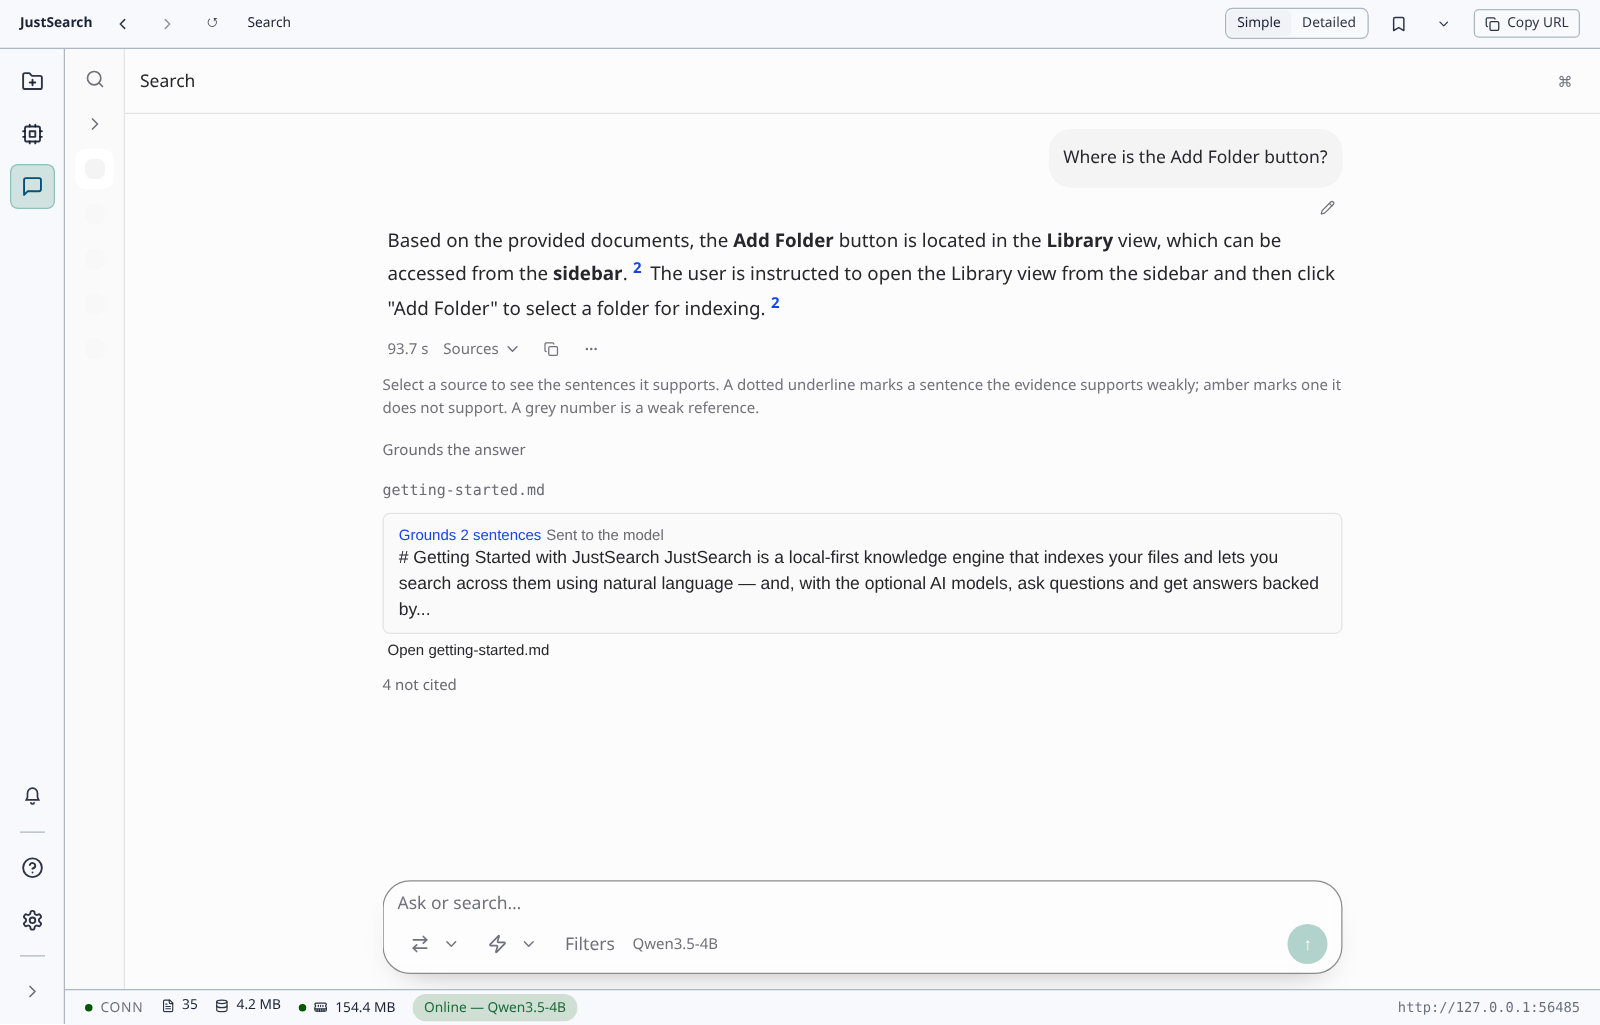
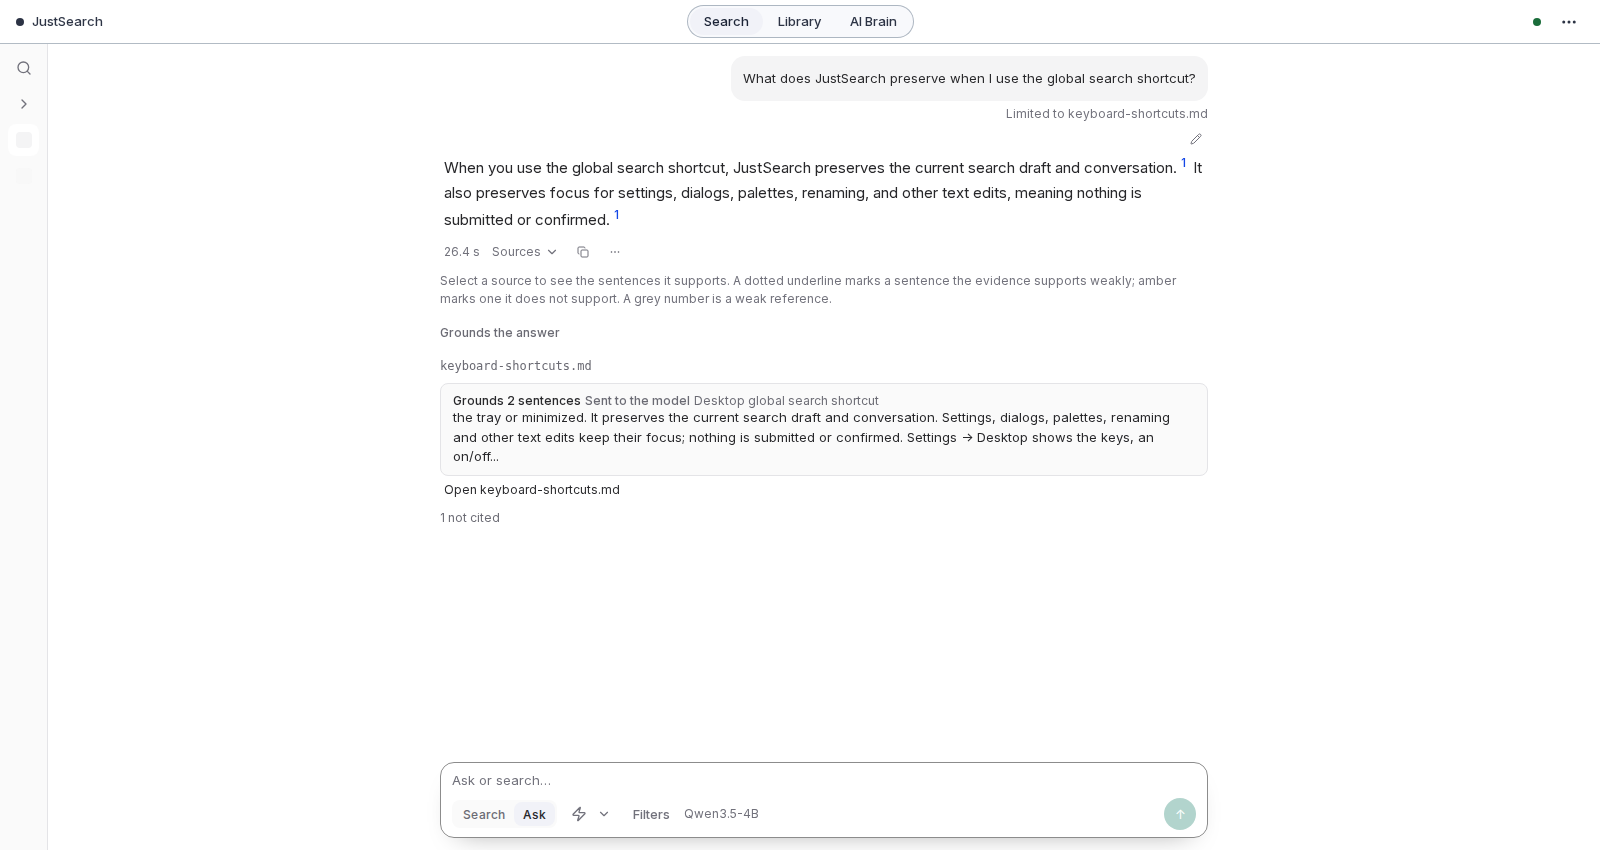
docs(readme): show the redesigned app (#1288)
The README's two screenshots showed the October interface (left rail, status bar). This retakes both from main f820c9c3ba, the app 0.3.5 ships: Search results for "keyboard shortcuts" under the top field, and a cited on-device answer from the keyboard shortcuts guide. Real captures over 31 of the project's public docs in a private, headless setup; nothing edited. Alt texts follow the new images.

Session-Id: 35d1393c-fcda-49d3-ba2a-7067b22d1629

diff --git a/README.md b/README.md
@@ -13,11 +13,11 @@
 
 <p align="center">
   <img src="docs/assets/hero-search.png" width="820"
-       alt="JustSearch results for the search semantic understanding, across a folder of local documents">
+       alt="JustSearch results for keyboard shortcuts, with matching words highlighted">
 </p>
 <p align="center">
   <img src="docs/assets/hero-answer.png" width="820"
-       alt="An on-device answer with citations, backed by an excerpt from a local document">
+       alt="JustSearch answers what the global search shortcut preserves, with citations and a passage from the keyboard shortcuts guide">
 </p>
 
 JustSearch is local-first: it indexes your local documents, such as PDF, email, Office and most common document
